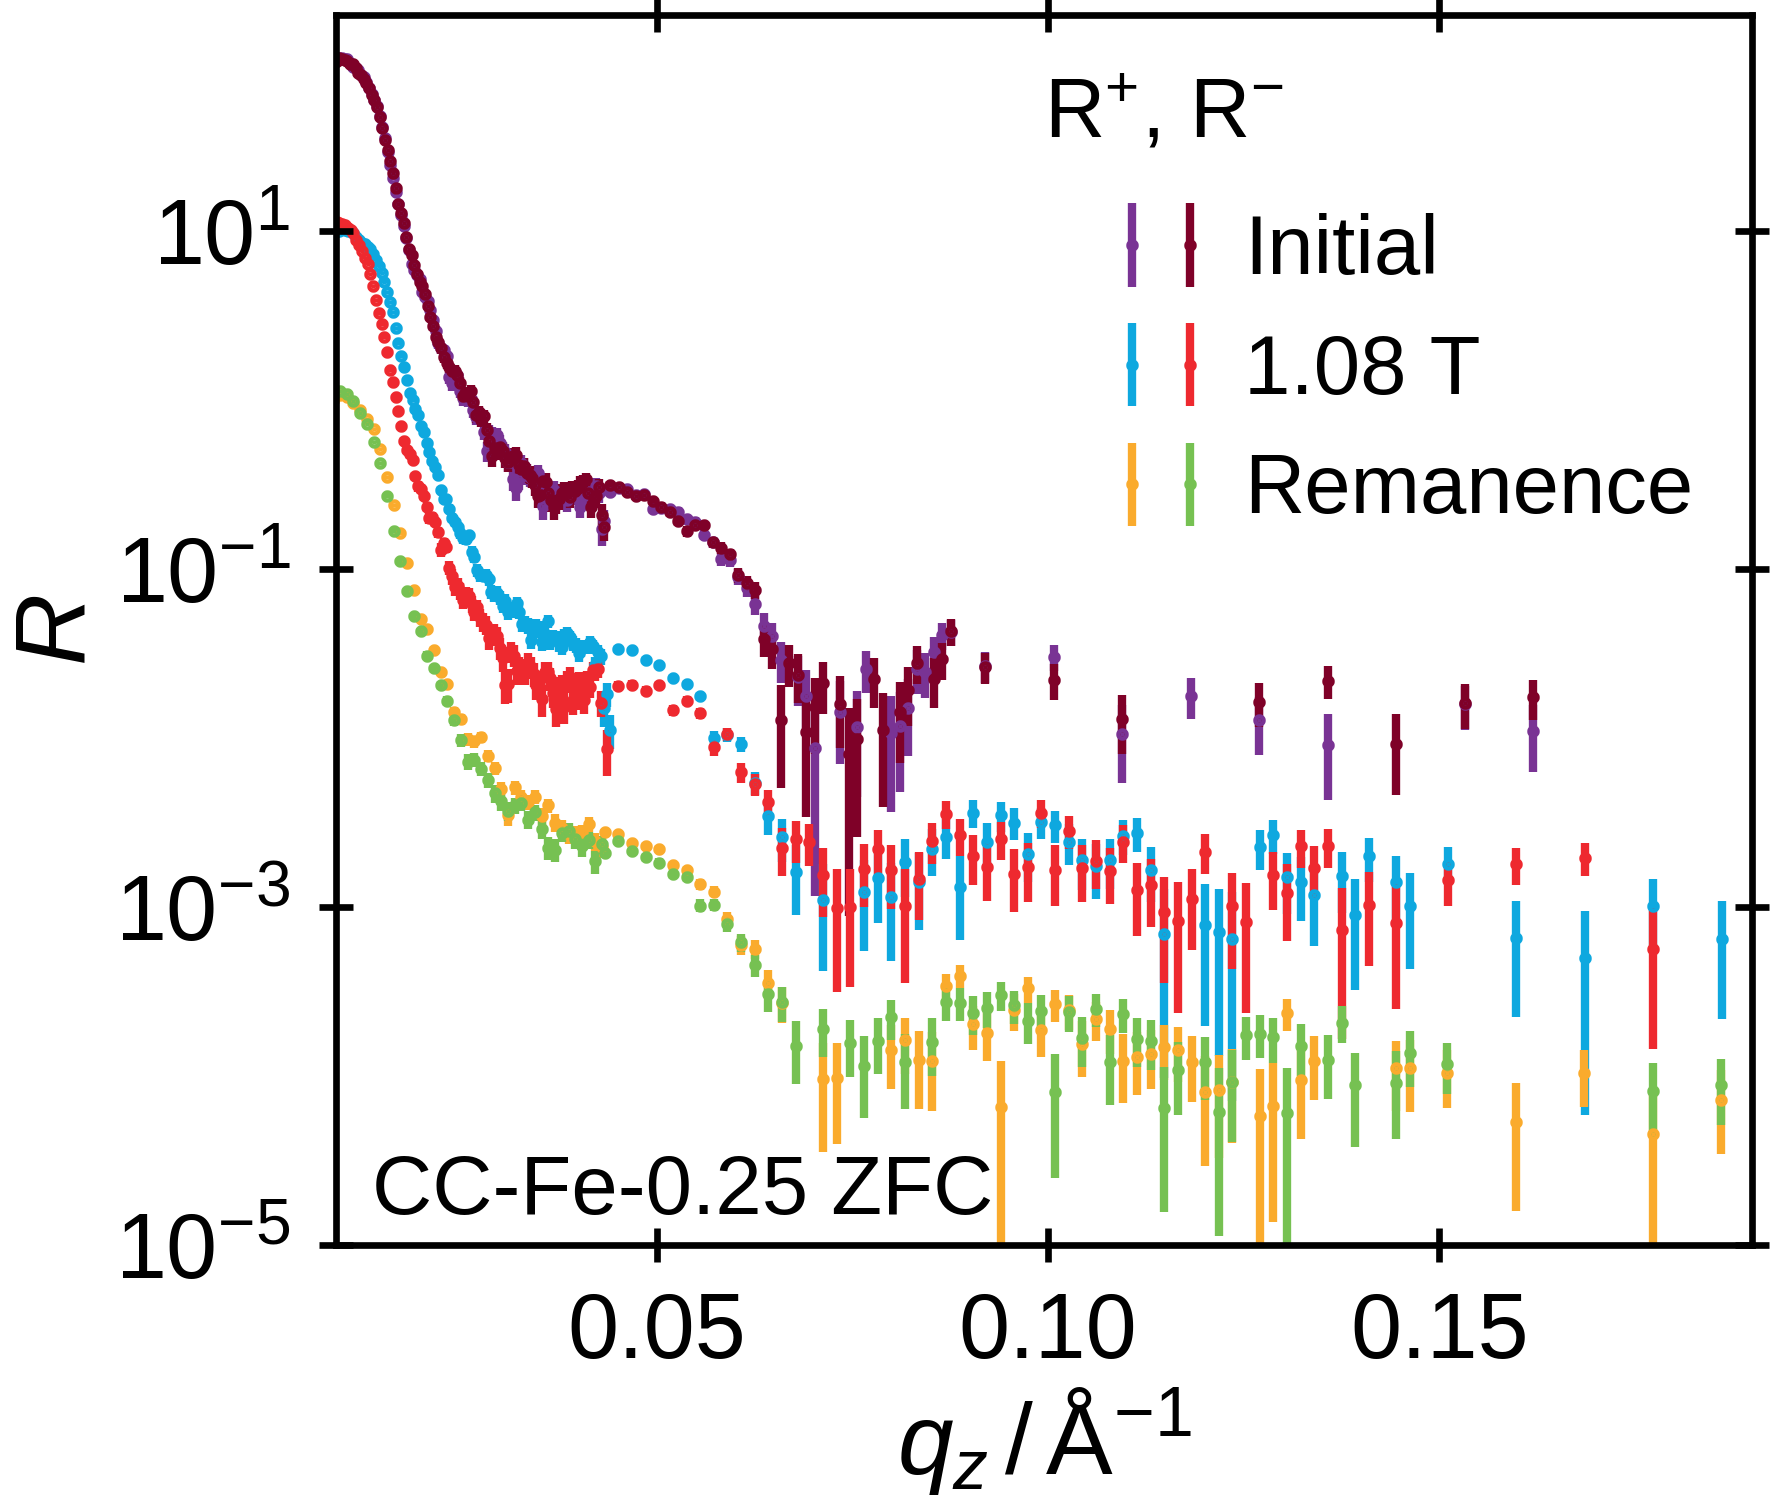
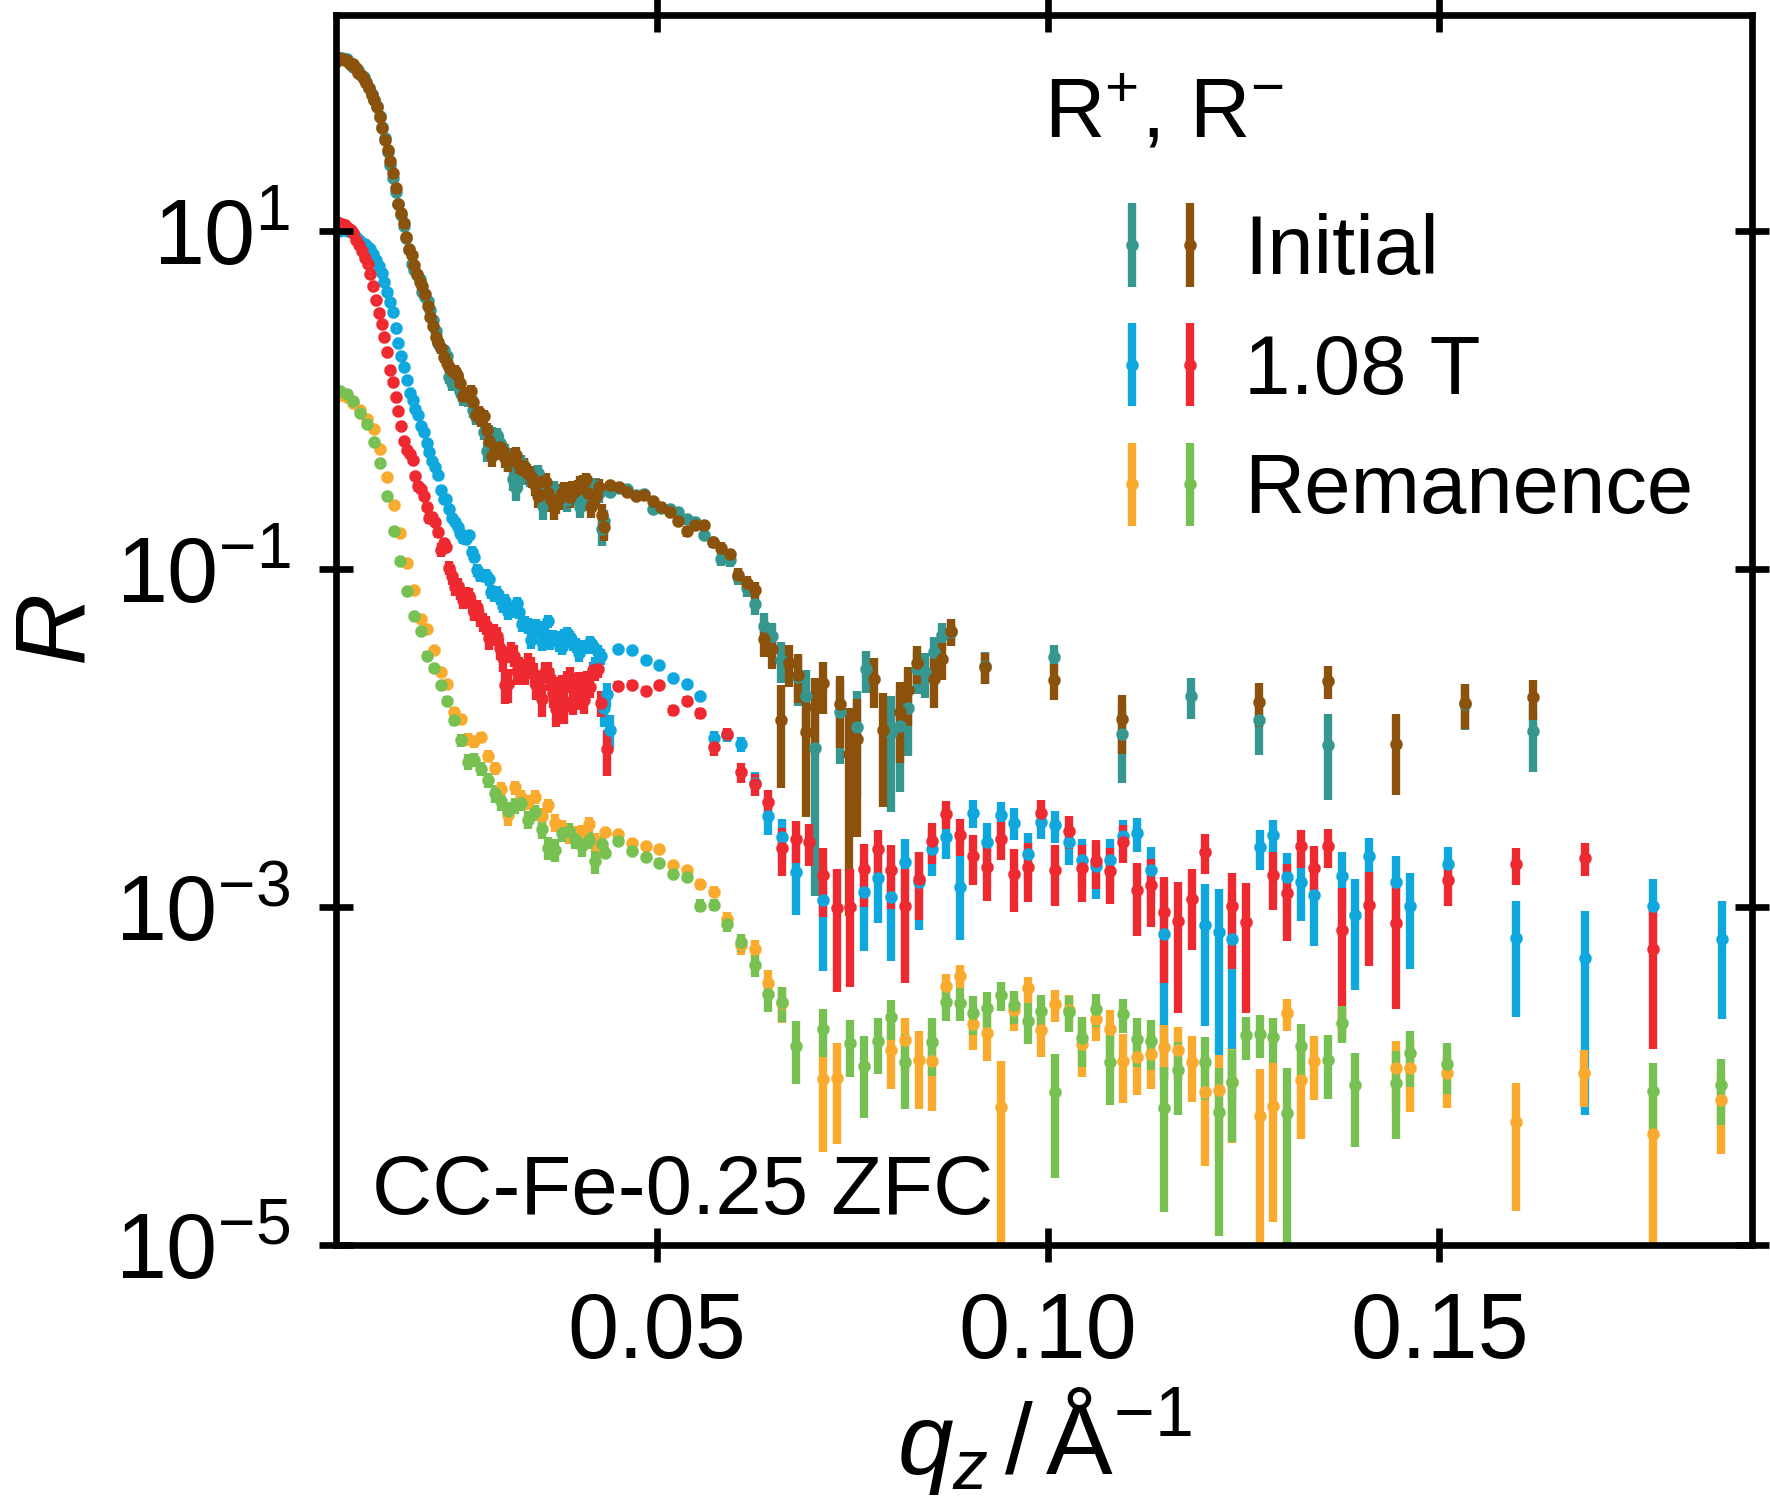
[Correction] Double Layer / Colloidal Crystal Better contrast for XRR Initial plot

diff --git a/data/doubleLayers/dl_0-25/pnr/THESIS_pnrData_ZFC.py b/data/doubleLayers/dl_0-25/pnr/THESIS_pnrData_ZFC.py
@@ -71,11 +71,11 @@ ax = fig.add_axes([left,bottom, 1-left-0.01, 1-bottom-0.01])
 p_gf_p = ax.errorbar(q_gf_p, I_gf_p*sf_gf, sI_gf_p*sf_gf,
   linestyle='None',
   label='ZFC, GF, $R^{+}$',
-  zorder=0, capsize=0, marker='.', markersize=1, color='#793394')
+  zorder=0, capsize=0, marker='.', markersize=1, color='#35978f')
 p_gf_m = ax.errorbar(q_gf_m, I_gf_m*sf_gf, sI_gf_m*sf_gf,
   linestyle='None',
   label='ZFC, GF, $R^{-}$',
-  zorder=0, capsize=0, marker='.', markersize=1, color='#7F0128')
+  zorder=0, capsize=0, marker='.', markersize=1, color='#8c510a')
 
 p_sat_p = ax.errorbar(q_sat_p, I_sat_p*sf_sat, sI_sat_p*sf_sat,
   linestyle='None',

diff --git a/data/doubleLayers/dl_1-25/pnr/THESIS_pnrData_ZFC.py b/data/doubleLayers/dl_1-25/pnr/THESIS_pnrData_ZFC.py
@@ -71,11 +71,11 @@ ax = fig.add_axes([left,bottom, 1-left-0.01, 1-bottom-0.01])
 p_gf_p = ax.errorbar(q_gf_p, I_gf_p*sf_gf, sI_gf_p*sf_gf,
   linestyle='None',
   label='ZFC, GF, $R^{+}$',
-  zorder=0, capsize=0, marker='.', markersize=1, color='#793394')
+  zorder=0, capsize=0, marker='.', markersize=1, color='#35978f')
 p_gf_m = ax.errorbar(q_gf_m, I_gf_m*sf_gf, sI_gf_m*sf_gf,
   linestyle='None',
   label='ZFC, GF, $R^{-}$',
-  zorder=0, capsize=0, marker='.', markersize=1, color='#7F0128')
+  zorder=0, capsize=0, marker='.', markersize=1, color='#8c510a')
 
 p_sat_p = ax.errorbar(q_sat_p, I_sat_p*sf_sat, sI_sat_p*sf_sat,
   linestyle='None',

diff --git a/data/doubleLayers/dl_2-5/pnr/THESIS_pnrData_ZFC.py b/data/doubleLayers/dl_2-5/pnr/THESIS_pnrData_ZFC.py
@@ -71,11 +71,11 @@ ax = fig.add_axes([left,bottom, 1-left-0.01, 1-bottom-0.01])
 p_gf_p = ax.errorbar(q_gf_p, I_gf_p*sf_gf, sI_gf_p*sf_gf,
   linestyle='None',
   label='ZFC, GF, $R^{+}$',
-  zorder=0, capsize=0, marker='.', markersize=1, color='#793394')
+  zorder=0, capsize=0, marker='.', markersize=1, color='#35978f')
 p_gf_m = ax.errorbar(q_gf_m, I_gf_m*sf_gf, sI_gf_m*sf_gf,
   linestyle='None',
   label='ZFC, GF, $R^{-}$',
-  zorder=0, capsize=0, marker='.', markersize=1, color='#7F0128')
+  zorder=0, capsize=0, marker='.', markersize=1, color='#8c510a')
 
 p_sat_p = ax.errorbar(q_sat_p, I_sat_p*sf_sat, sI_sat_p*sf_sat,
   linestyle='None',

diff --git a/data/doubleLayers/reproducibility/THESISplotReproducibility.py b/data/doubleLayers/reproducibility/THESISplotReproducibility.py
@@ -26,7 +26,7 @@ ax = fig.add_axes([left,bottom, 1-left-0.01, 1-bottom-0.01])
 # ax.errorbar(q_1, I_1, sI_1, marker='None', label='DL-1.25%')
 # ax.errorbar(q_2, I_2*0.1, sI_2*0.1, marker='None', label='DL-1.25%-2')
 ax.plot(q_1, I_1,   alpha=0.8, marker='None', label='DL-1.25%')
-ax.plot(q_2, I_2*2, alpha=0.8, marker='None', label='$10 \cdot$ DL-1.25%-2')
+ax.plot(q_2, I_2*2, alpha=0.8, marker='None', label='$2 \cdot$ DL-1.25%-2')
 ax.set_xscale('log')
 ax.set_yscale('log')
 ax.set_xlabel('$\mathit{q_z} \, / \, nm^{-1}$')
